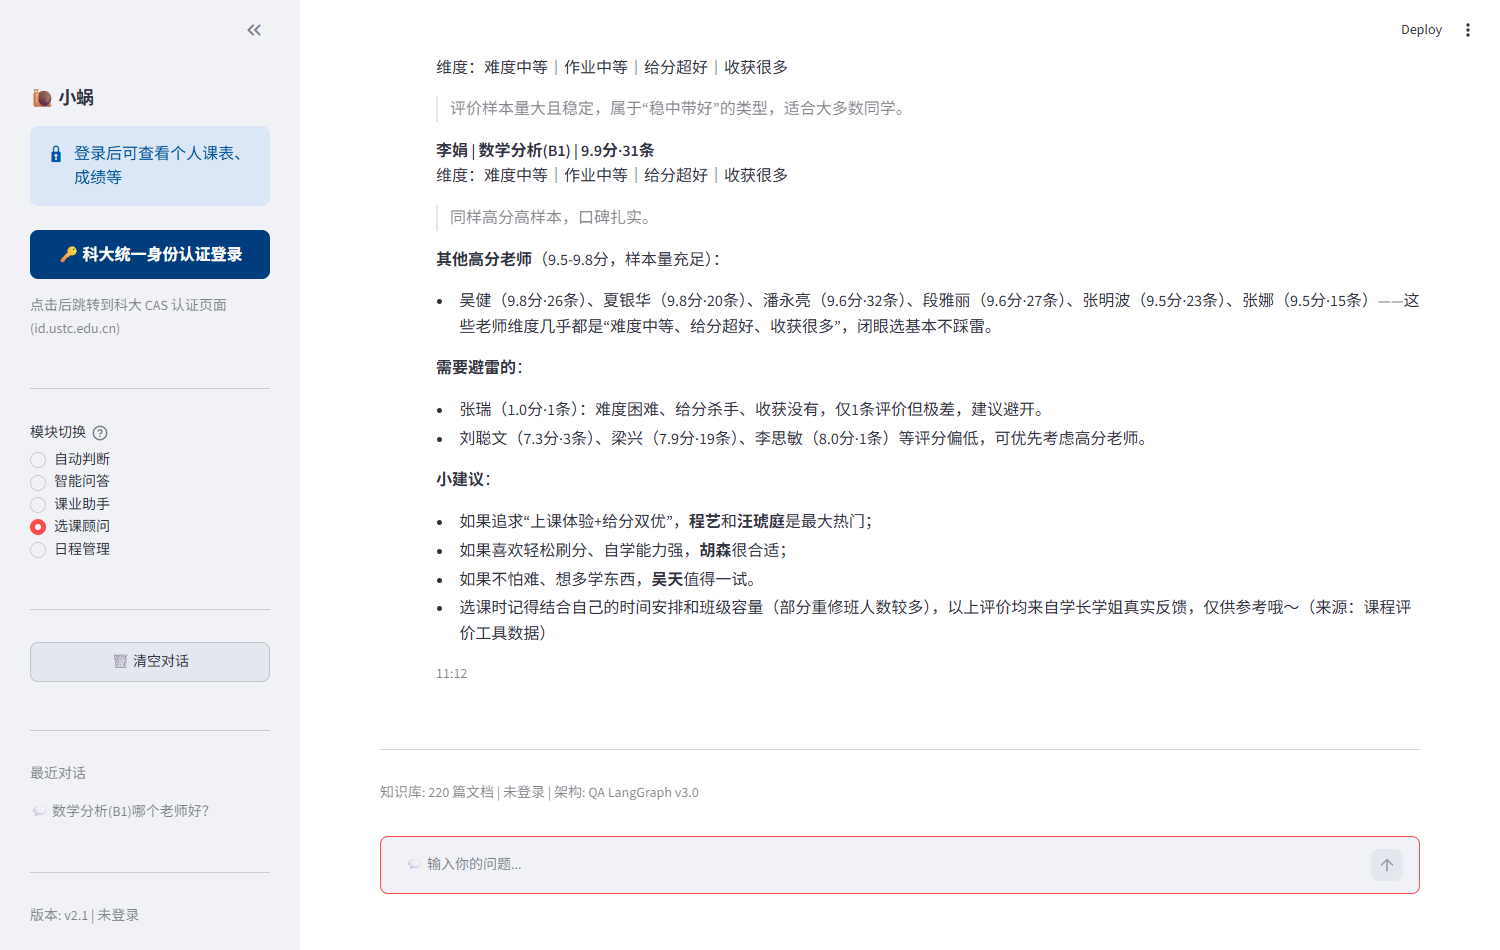
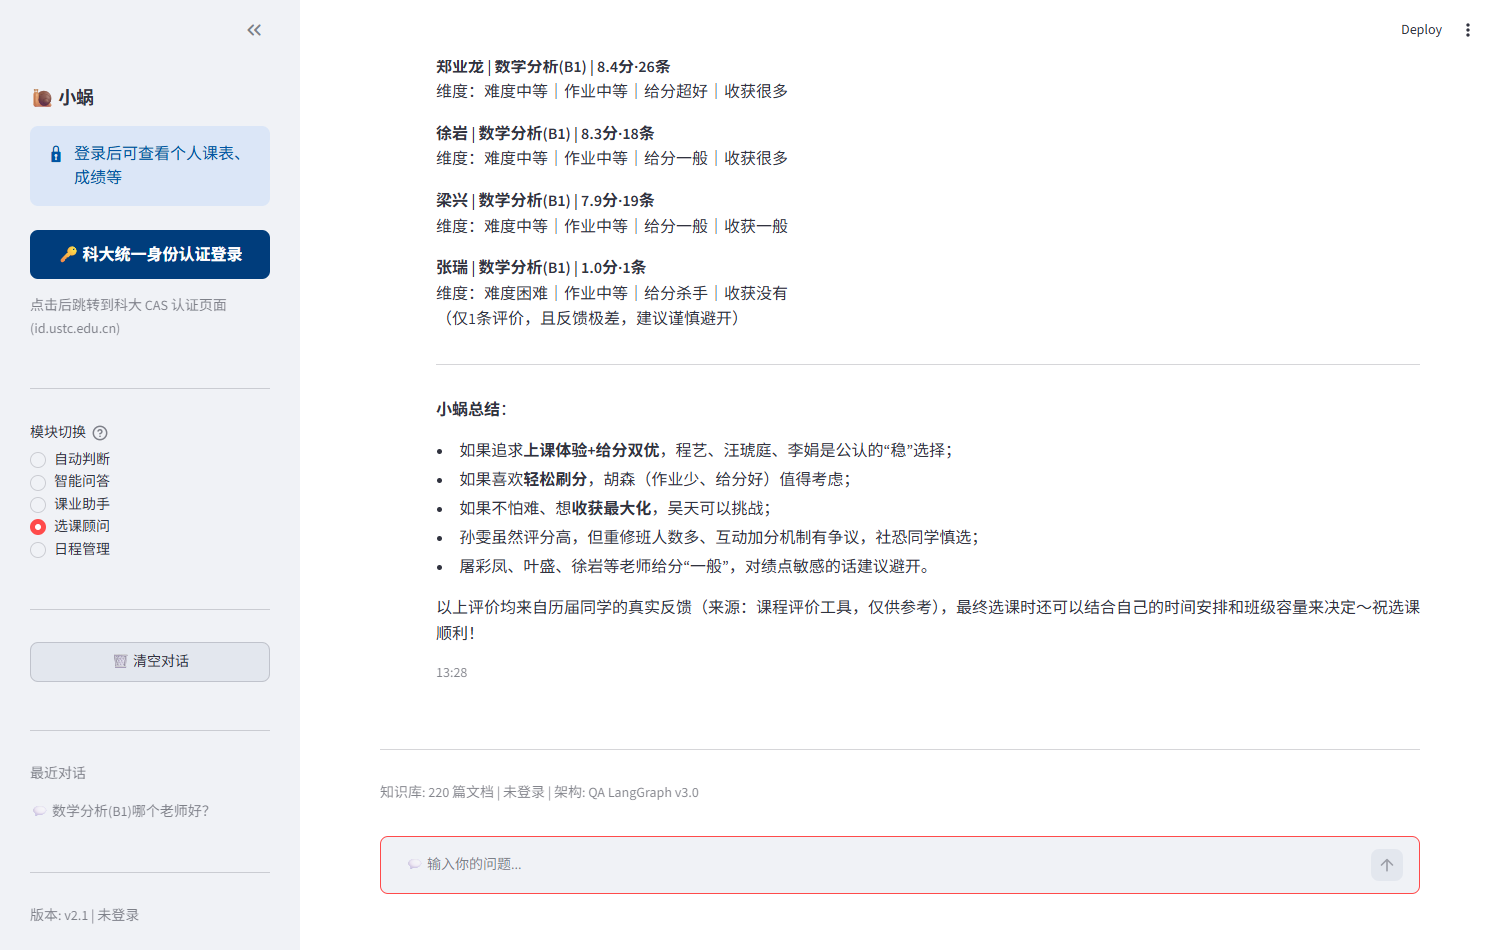
fix: search_courses merges review-db course catalog on fallback
Bare course-name lookups like 数学分析B1 hit only the 8-row seed
catalog in xiaowo.db and returned not-found. Fallback now also queries
data/course_data.db (2351 courses) with normalized matching and dedupes
by normalized name, so B1-style queries resolve to the real course.

- verify_tools: +3 assertions (cross-db hit, multi-class coverage, no dupes)
- browser_e2e: +q8 bare course-name scene with content assertion

Changed region(s): [[0.276, 0.0611, 0.9507, 0.6716]]

diff --git a/scripts/verify_tools.py b/scripts/verify_tools.py
@@ -104,5 +104,30 @@ ok("关键词归一化结果非空", len(kw_recs) > 0, f"{len(kw_recs)} 门")
 ok("关键词归一化全部含「数学分析」", all("数学分析" in c["name"] for c in kw_recs),
    [c["name"] for c in kw_recs][:5])
 
+# 9. 课程搜索跨库合并: 本地种子课程表仅少量样例,
+#    search_courses 应合并评课库完整课程表, 使「数学分析B1」可被检索
+from database.db_manager import DatabaseManager
+from services.service_container import ServiceContainer
+ServiceContainer()._db = DatabaseManager("database/xiaowo.db")
+# 注入假 Catalog（始终失败）, 让断言确定性地覆盖本地 fallback 路径
+class _OfflineCatalog:
+    def search_courses(self, keyword):
+        raise RuntimeError("offline")
+ServiceContainer()._catalog_api = _OfflineCatalog()
+from tools.course_tools import search_courses, _norm_course_name
+
+r_sc = search_courses.invoke({"keyword": "数学分析B1"})
+sc_names = [c["course_name"] for c in (r_sc.get("courses") or [])]
+ok("课程搜索跨库命中 B1", r_sc.get("count", 0) >= 1 and "数学分析(B1)" in sc_names,
+   f"count={r_sc.get('count')}, {sc_names}")
+
+r_sc2 = search_courses.invoke({"keyword": "数学分析"})
+sc2_names = [c["course_name"] for c in (r_sc2.get("courses") or [])]
+ok("课程搜索多班型覆盖", "数学分析(B1)" in sc2_names and "数学分析(B2)" in sc2_names,
+   f"{len(sc2_names)} 门: {sc2_names}")
+ok("课程搜索无重复课程名",
+   len({_norm_course_name(n) for n in sc2_names}) == len(sc2_names),
+   sc2_names)
+
 
 print(f"\n结果: {PASS}/{PASS} 断言通过")

diff --git a/scripts/browser_e2e.py b/scripts/browser_e2e.py
@@ -21,12 +21,14 @@ SCENES = [
     ("e2e_v3_q5_faq", "智能问答", "学生证丢了怎么补办？"),
     ("e2e_v3_q6_no_paren", "选课顾问", "数学分析B1哪个老师好？"),
     ("e2e_v3_q7_shufen", "选课顾问", "数分哪个老师好？"),
+    ("e2e_v3_q8_course_lookup", "选课顾问", "数学分析B1"),
 ]
 
 # 内容断言: 新功能场景必须出现的关键子串
 EXPECTED = {
     "e2e_v3_q6_no_paren": "老师",   # 无括号课程名应直接命中点评
     "e2e_v3_q7_shufen": "班型",     # 简称歧义应反问班型
+    "e2e_v3_q8_course_lookup": "数学分析",  # 裸课程名跨库检索应能查到课程
 }
 
 
